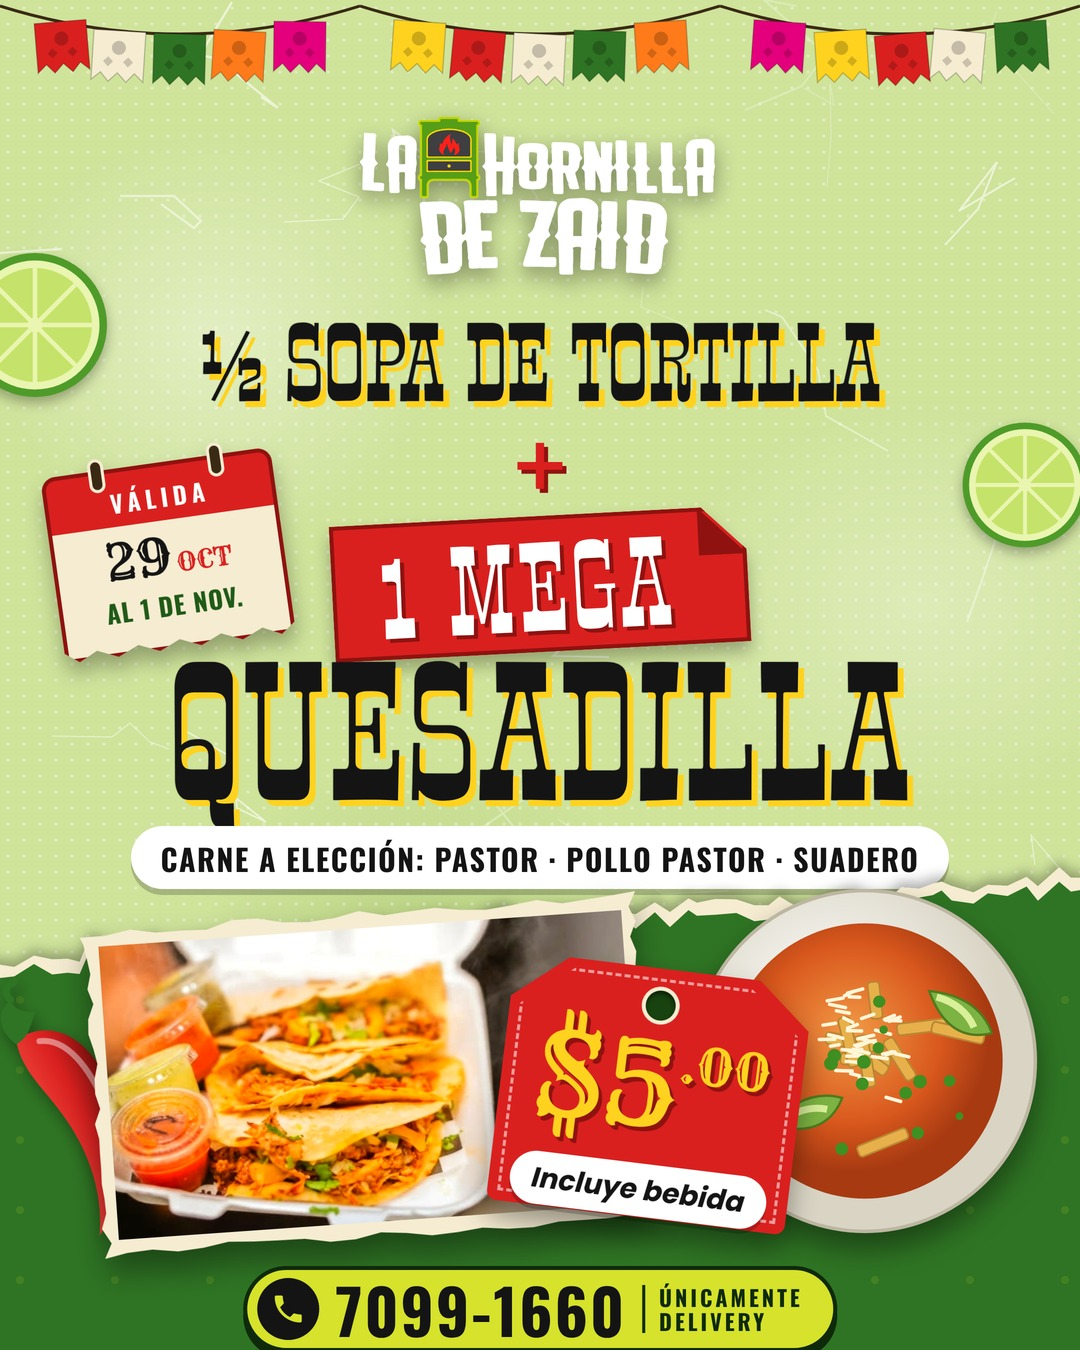
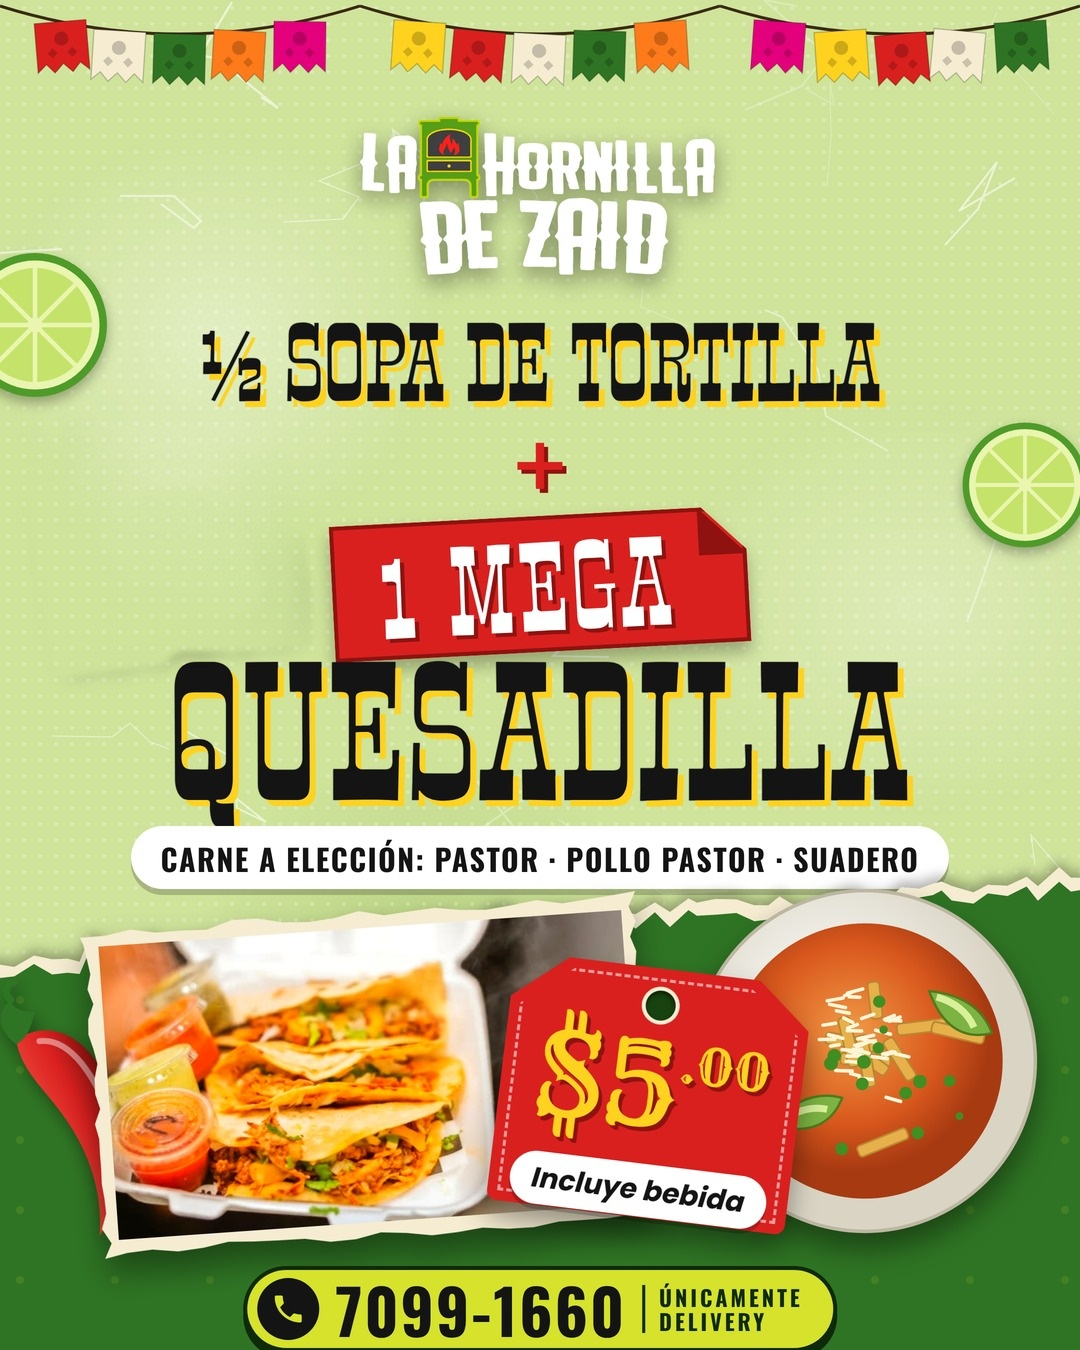
Promos de quesadilla y tacos sin fecha limite

Changed region(s): [[0.0306, 0.3111, 0.275, 0.4978]]

diff --git a/JS/canal-imagenes.js b/JS/canal-imagenes.js
@@ -22,8 +22,8 @@ export const CARPETAS_CANAL = {
 
 export const IMAGENES_CANAL = [
     { carpeta: 'promociones', archivo: 'precios-charros.jpg', titulo: 'Precios Charros (29 oct – 1 nov)' },
-    { carpeta: 'promos', archivo: 'promo-mega-quesadilla.jpg', v: 2, titulo: '½ sopa + mega quesadilla + bebida a $5 (29 oct – 1 nov)' },
-    { carpeta: 'promos', archivo: 'promo-sopa-tacos-hornilla.jpg', v: 2, titulo: '½ sopa + 2 tacos + bebida a $4.50 (29 oct – 1 nov)' },
+    { carpeta: 'promos', archivo: 'promo-mega-quesadilla.jpg', v: 3, titulo: '½ sopa + mega quesadilla + bebida a $5' },
+    { carpeta: 'promos', archivo: 'promo-sopa-tacos-hornilla.jpg', v: 3, titulo: '½ sopa + 2 tacos + bebida a $4.50' },
     { carpeta: 'avisos', archivo: 'delivery-envio-mapa.jpg', titulo: 'Delivery a $1 (Sonzacate y Sonsonate centro)' },
     { carpeta: 'avisos', archivo: 'hoy-descansamos.jpg', titulo: 'Hoy no hay servicio' },
     { carpeta: 'avisos', archivo: 'resena-google.jpg', titulo: 'Déjanos tu reseña en Google' },
